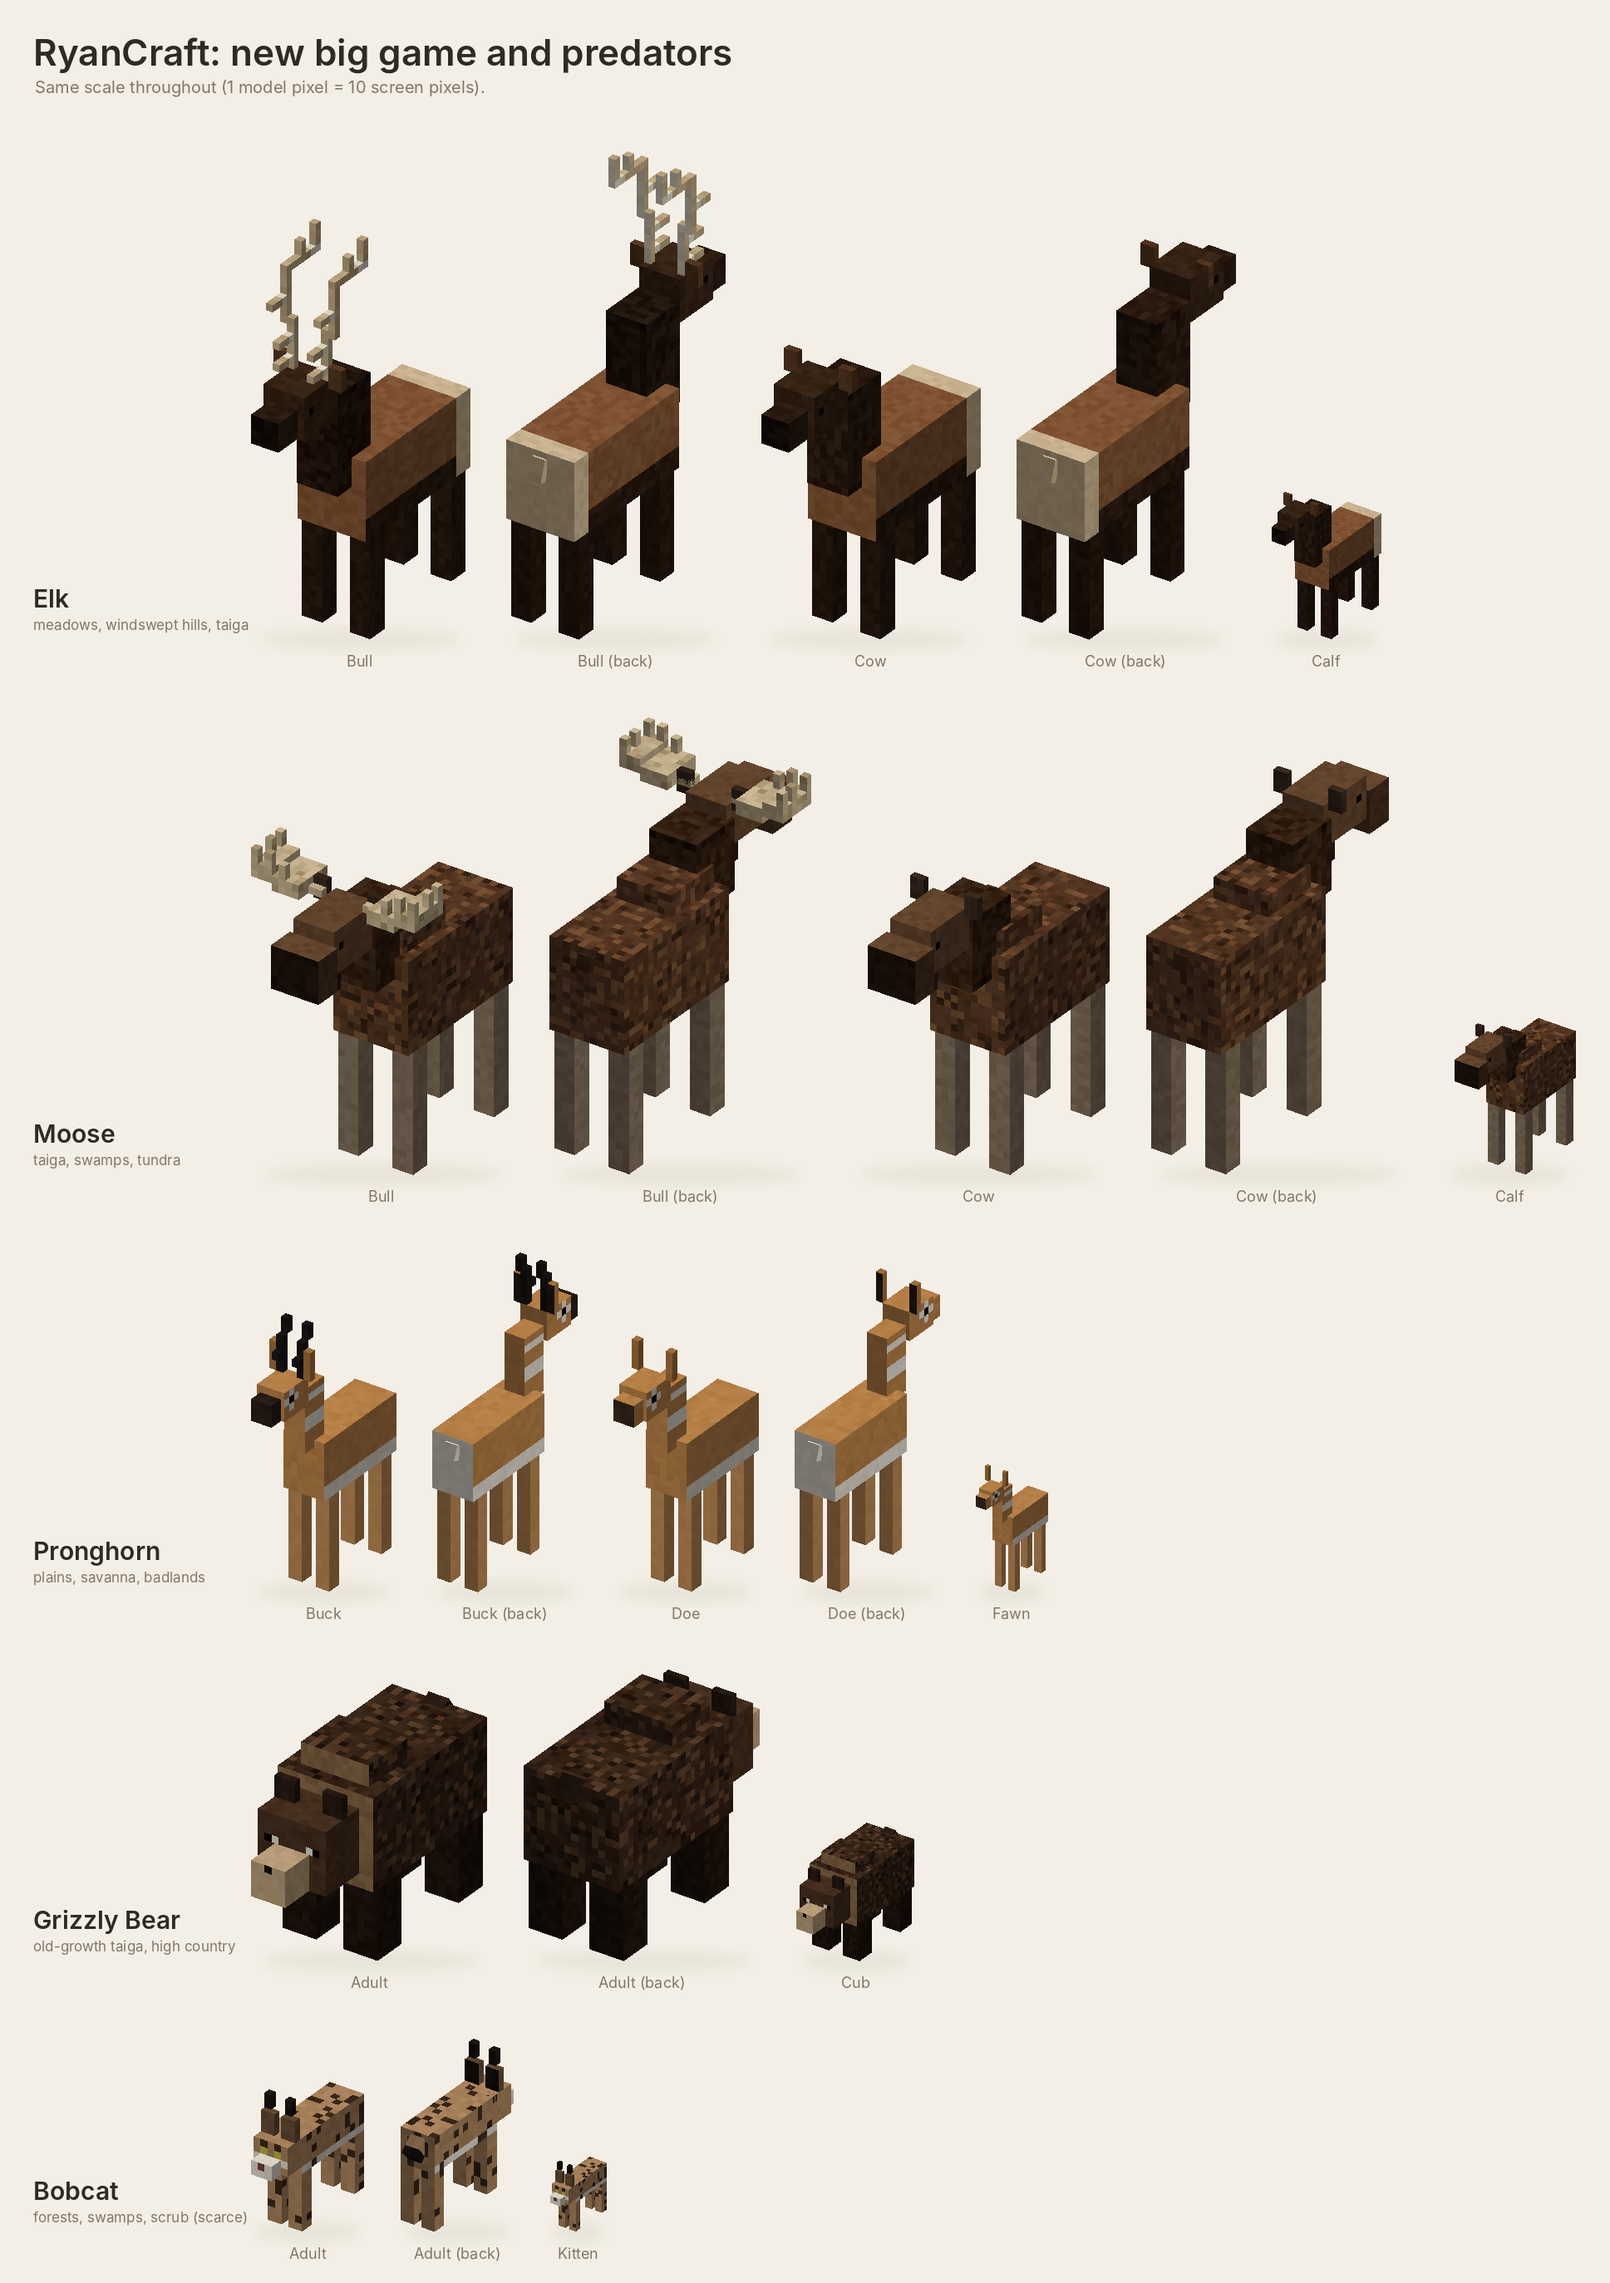
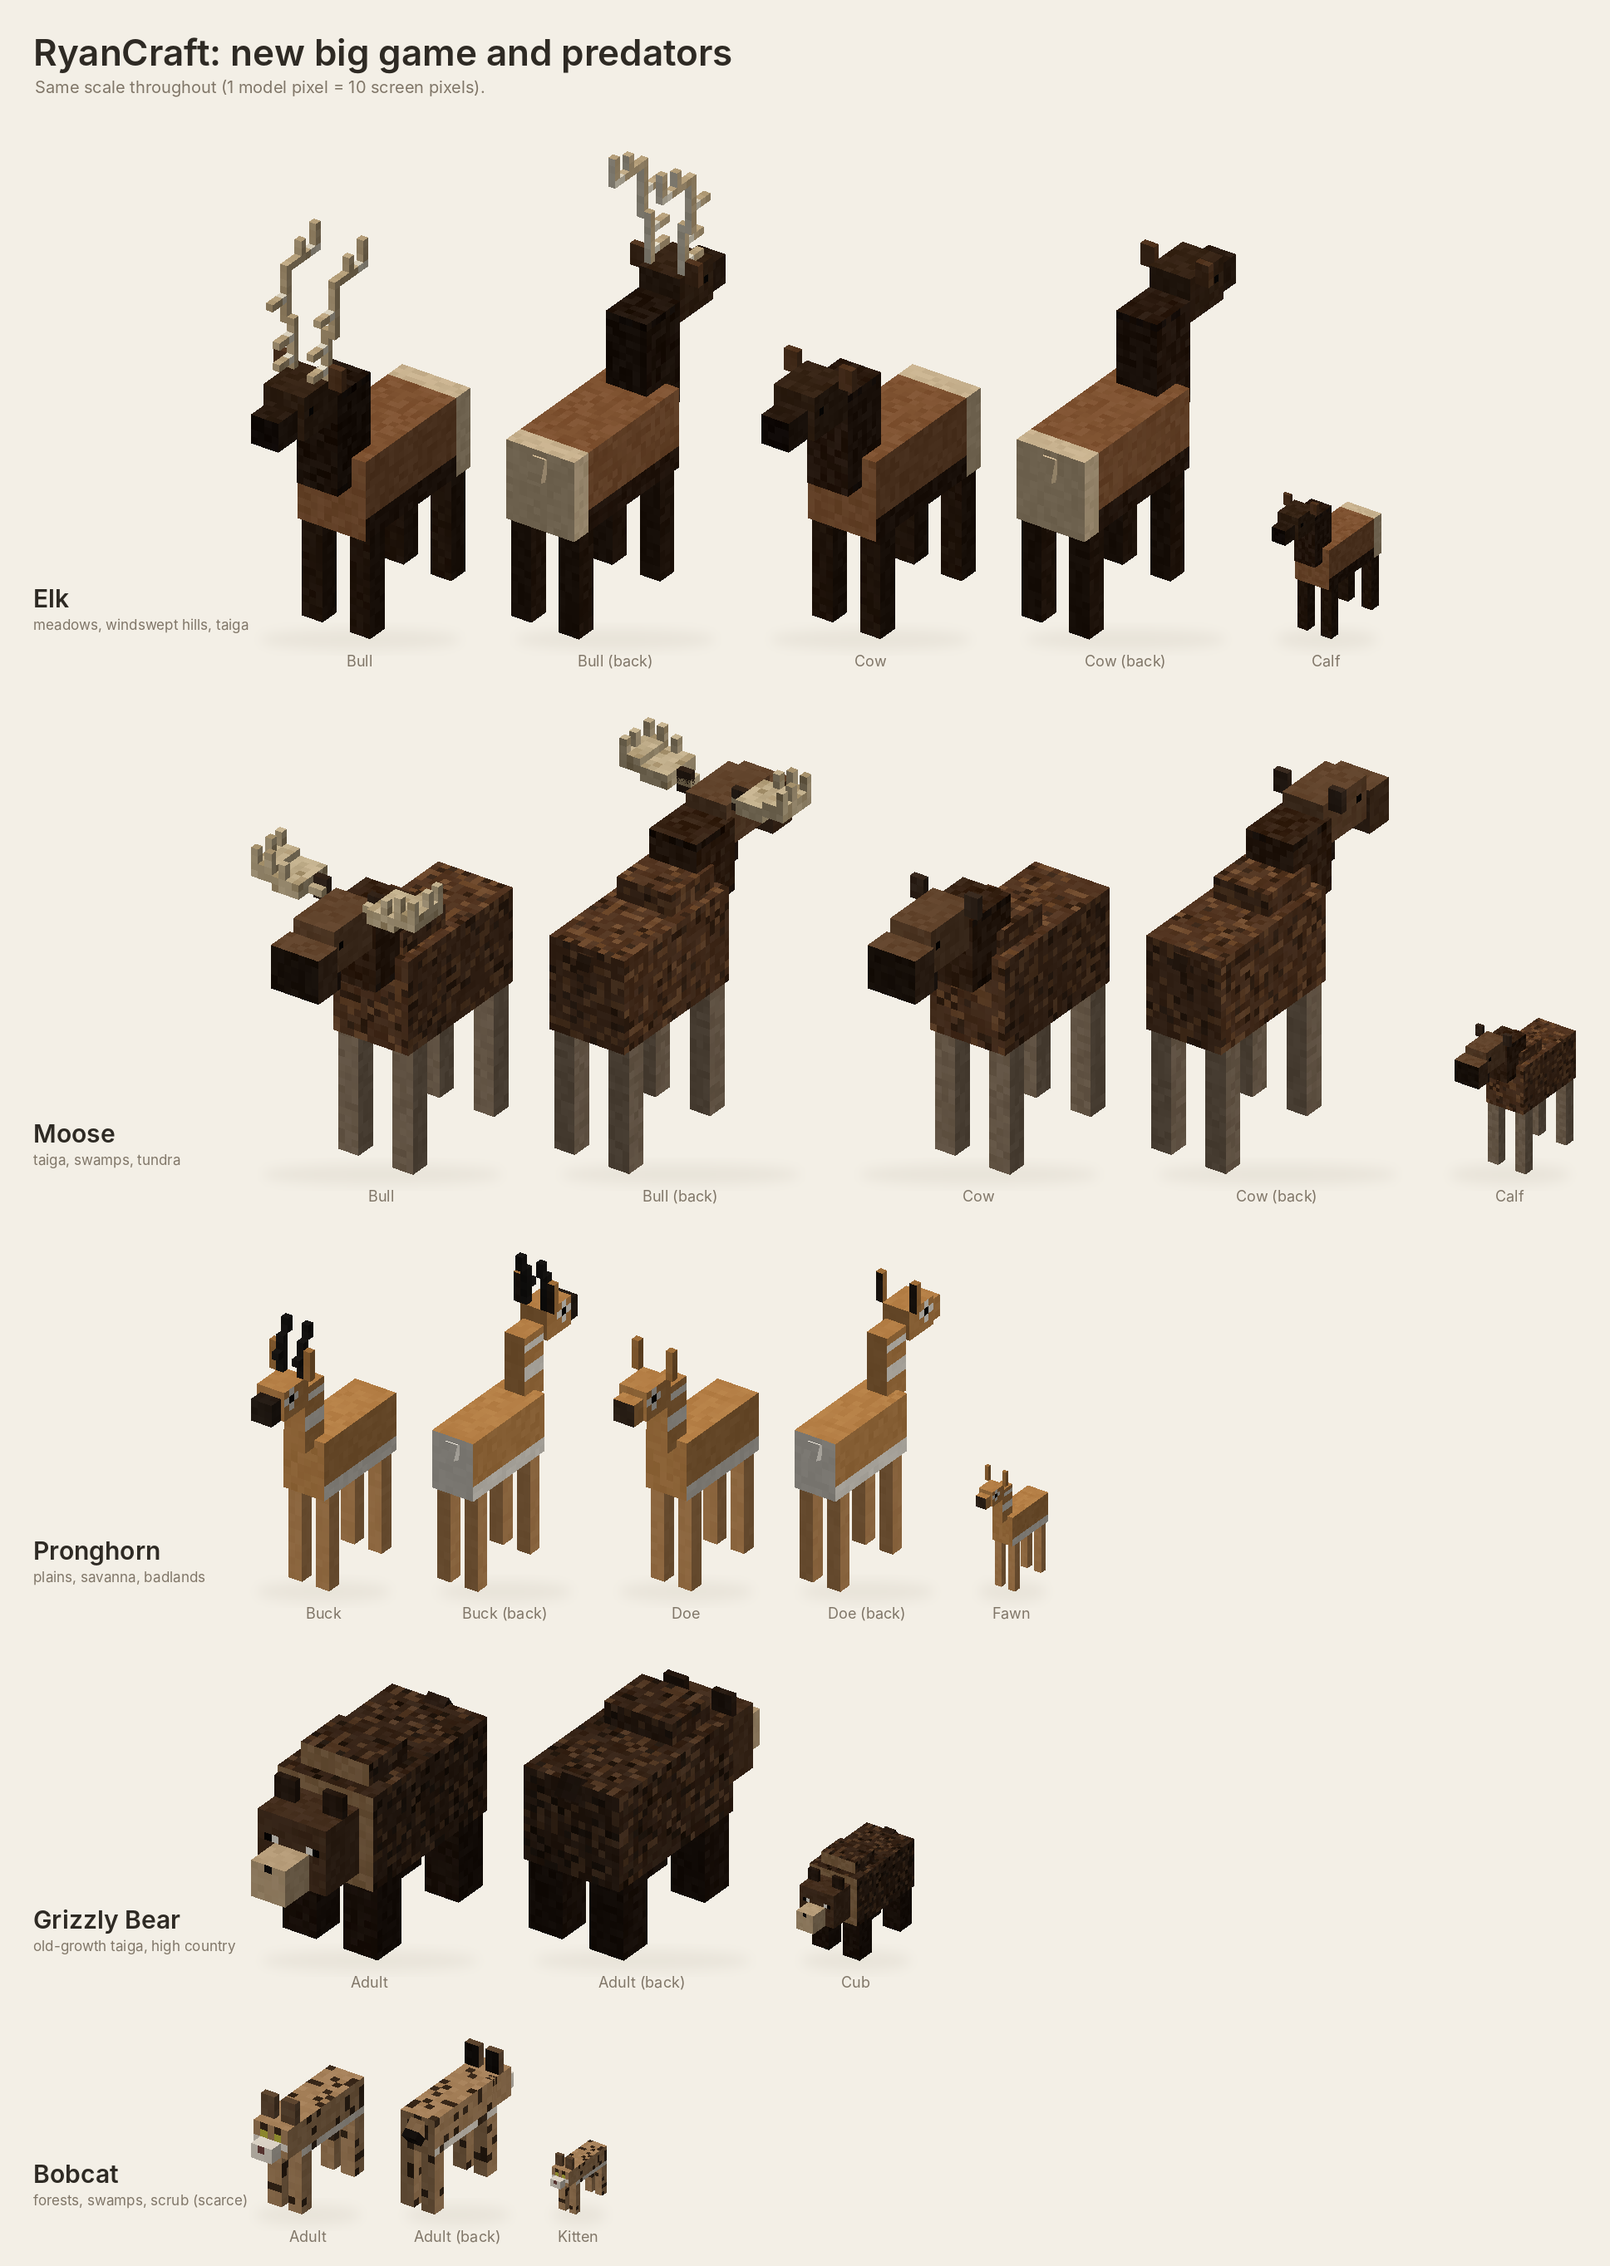
Bobcat: drop the ear tufts
Claude-Session: https://claude.ai/code/session_01M5QtgiQGYPBXfdb72XCowG

diff --git a/tools/big_game.py b/tools/big_game.py
@@ -73,9 +73,8 @@ pronghorn = cervid((6, 8, 15), (2, 13), -7,          # "racer": long legs, tall 
 grizzly = quad((14, 13, 24), (5, 10), (10, 9, 8), snout=(5, 5, 5), ears=(3, 3), tail=(3, 3, 2, 0.6), head_up=-2)
 grizzly[0]["boxes"].append(box("hump", (-5, -9.5, -10), (10, 3, 8), "body"))
 
-# ---- bobcat: a long-legged, lynx-faced wildcat with tufted ears and a stubby tail
-bobcat = quad((5, 5, 13), (2, 8), (5, 4, 4), snout=(3, 2, 2), ears=(2, 3), tail=(2, 2, 3, -0.7), leg_inset=0, extra_head=[   # "lanky"
-    box("tuft_r", (-2, -7.5, -2.5), (1, 2, 1), "tuft"), box("tuft_l", (1, -7.5, -2.5), (1, 2, 1), "tuft", mirror=True)])
+# ---- bobcat: a long-legged, lynx-faced wildcat with a stubby tail
+bobcat = quad((5, 5, 13), (2, 8), (5, 4, 4), snout=(3, 2, 2), ears=(2, 3), tail=(2, 2, 3, -0.7), leg_inset=0)   # "lanky"
 
 CLEAR = {"c": None}
 ELK = {   # Roosevelt elk: deep reddish-brown, near-black mane, cream rump
